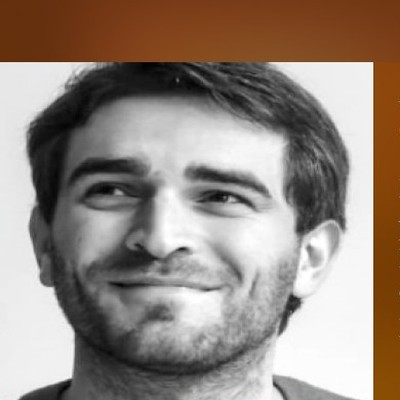
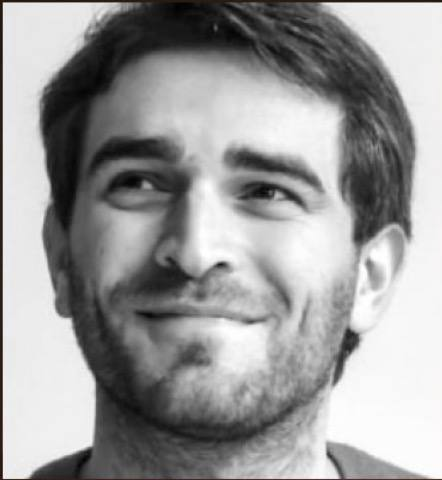
feat: square creator photos, new images

diff --git a/baiterek/landing-page/src/app/page.js b/baiterek/landing-page/src/app/page.js
@@ -302,7 +302,7 @@ export default function Home() {
                   className="text-center group hover:-translate-y-4 transition-transform duration-500"
                 >
                   {/* Photo */}
-                  <div className="w-40 h-40 mx-auto mb-8 rounded-full overflow-hidden border-2 border-gold-500/15 group-hover:border-gold-500/50 transition-all duration-700 group-hover:scale-110 group-hover:shadow-[0_0_40px_rgba(212,175,55,0.25)]">
+                  <div className="w-28 h-28 mx-auto mb-8 rounded-lg overflow-hidden border border-gold-500/15 group-hover:border-gold-500/50 transition-all duration-700 group-hover:scale-110 group-hover:shadow-[0_0_30px_rgba(212,175,55,0.2)]">
                     <Image
                       src={creator.photo}
                       alt={creator.nameEn}
